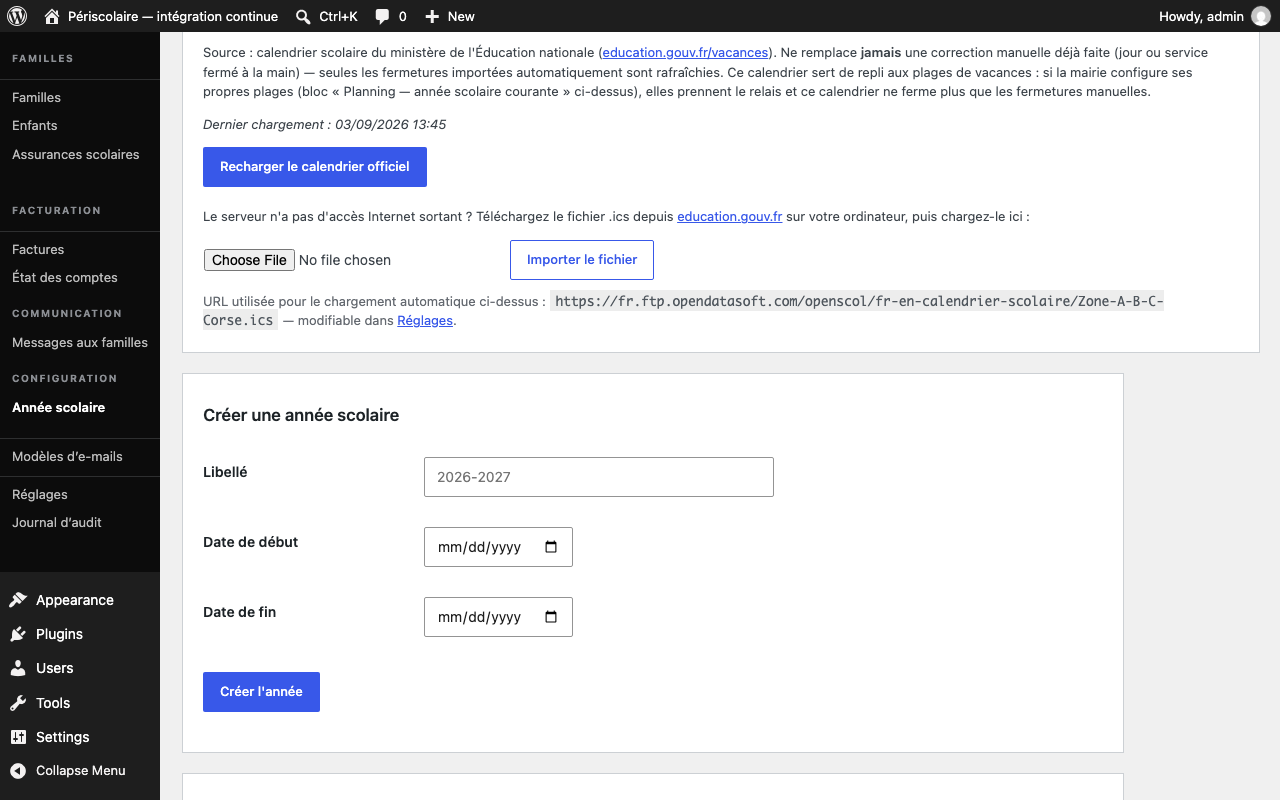
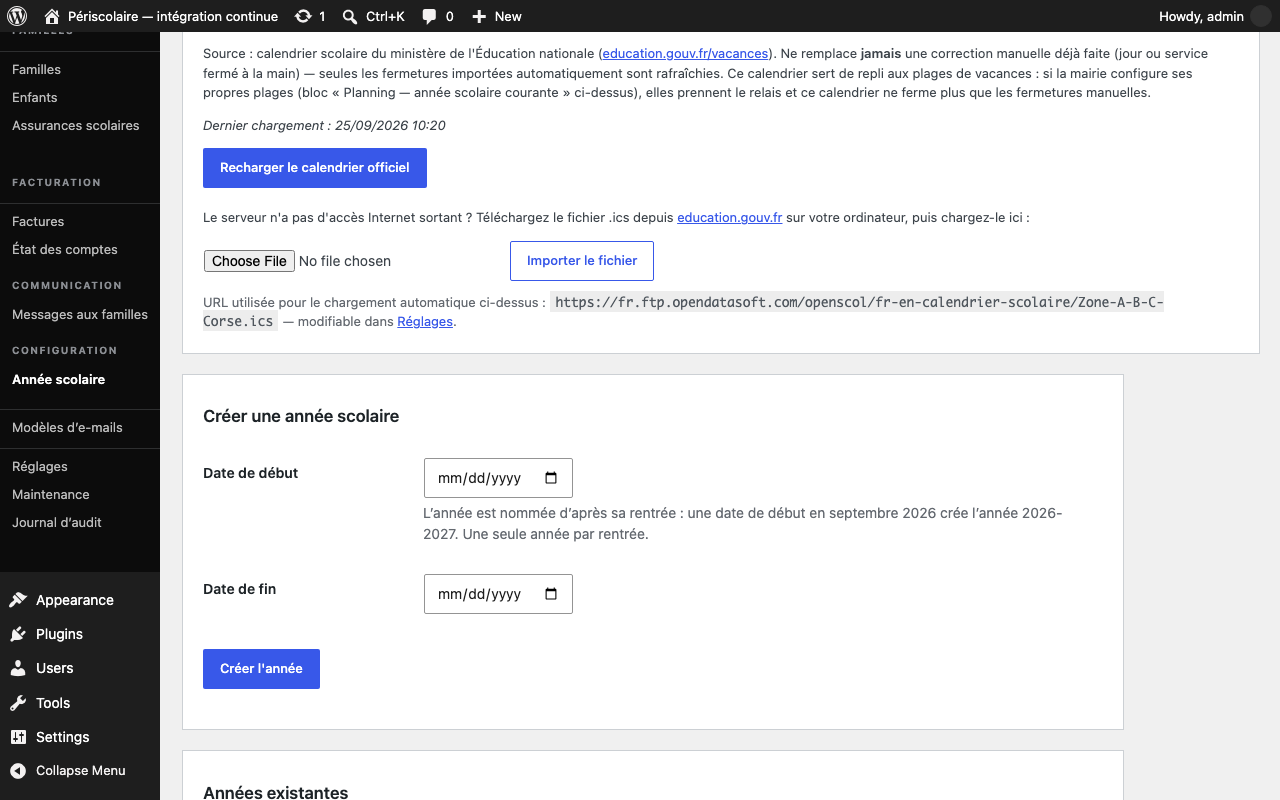
docs(captures): année scolaire sans libellé et calendrier régénérés
Claude-Session: https://claude.ai/code/session_01NUknn5V2uYE87AKNARM7tY

diff --git a/scripts/screenshots/capture.spec.ts b/scripts/screenshots/capture.spec.ts
@@ -74,6 +74,9 @@ async function frame(page: Page, locator: Locator): Promise<void> {
 }
 
 async function capture(page: Page, filename: string, fullPage = false): Promise<void> {
+  // L'avis « WordPress x.y est disponible » dépend du poste qui capture,
+  // pas de l'extension : il n'a pas sa place dans la documentation.
+  await page.addStyleTag({ content: '.update-nag { display: none !important; }' });
   await page.screenshot({ path: path.join(SCREENSHOTS_DIR, filename), fullPage });
 }
 
@@ -114,7 +117,8 @@ test.describe.serial('Captures de la documentation administrateur', () => {
   test('année scolaire — liste des années existantes', async ({ page }) => {
     await openAdmin(page, 'admin.php?page=psc_school_calendar_v2&tab=historique');
     await frame(page, page.getByRole('heading', { name: 'Années existantes' }));
-    await expect(page.locator('input[value="Documentation active"]')).toBeVisible();
+    // Une année se désigne par sa clé (P2-08), il n'y a plus de libellé.
+    await expect(page.getByTestId(`year-key-${seed().year_id}`)).toHaveText(seed().year_key);
     await capture(page, 'annee-scolaire-liste.png');
   });
 

diff --git a/bin/seed-docs-screenshots.php b/bin/seed-docs-screenshots.php
@@ -305,6 +305,10 @@ WP_CLI::add_command('seed-docs-screenshots', function ($args, $assoc_args) {
     update_option('psc_billing_org_iban', psc_encrypt('FR7630006000011234567890189'), false);
     update_option('psc_billing_org_bic', 'AGRIFRPP', false);
 
+    // Responsable du traitement renseigné : sinon l'avis « Notice de
+    // confidentialité » occupe le haut de chaque capture de l'administration.
+    update_option('psc_privacy_municipality', 'Mairie de Montgeroult');
+
     /* ---------------------------------------------------------------- */
     /* Fenêtre de réinscription — toujours ouverte au moment du run       */
     /* ---------------------------------------------------------------- */

diff --git a/TODO.md b/TODO.md
@@ -46,7 +46,7 @@
 | P3-01 | Premier lot publié en 5.30.0, déployé ; second lot fait (listes du calendrier factorisées, e-mail « forfait modifié » par enfant), à publier | Développement |
 | P1-06 à P1-10 | Notice relue, durées de conservation, procédure des droits, dossier de conformité et AIPD | DPO et mairie |
 | P1-01 | Permissions par fonction des intervenants | Mis de côté |
-| Documentation | Captures de l'écran **Année scolaire** à régénérer (formulaire sans libellé) | Développement |
+| Documentation | Captures **Année scolaire** et **Calendrier** régénérées (formulaire sans libellé, jours hors du mois), à publier | — |
 
 ## Périmètre et limites
 
